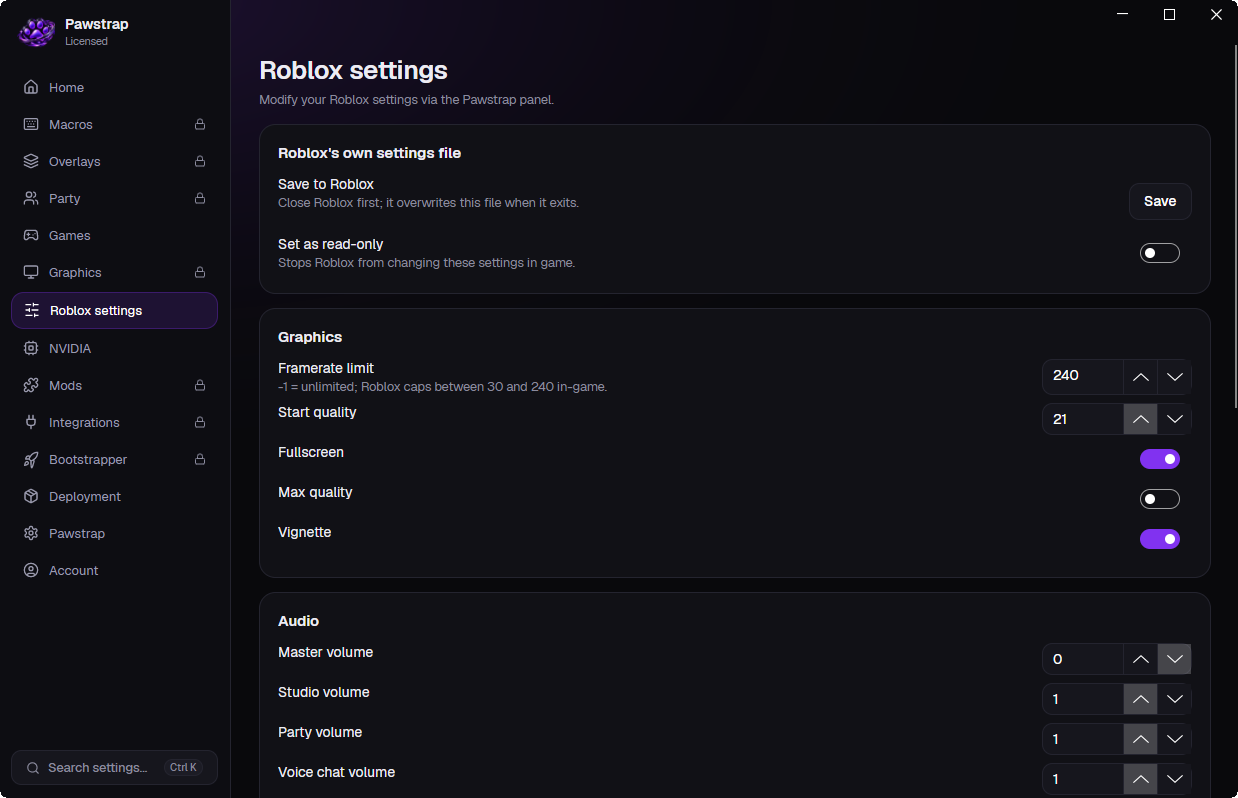
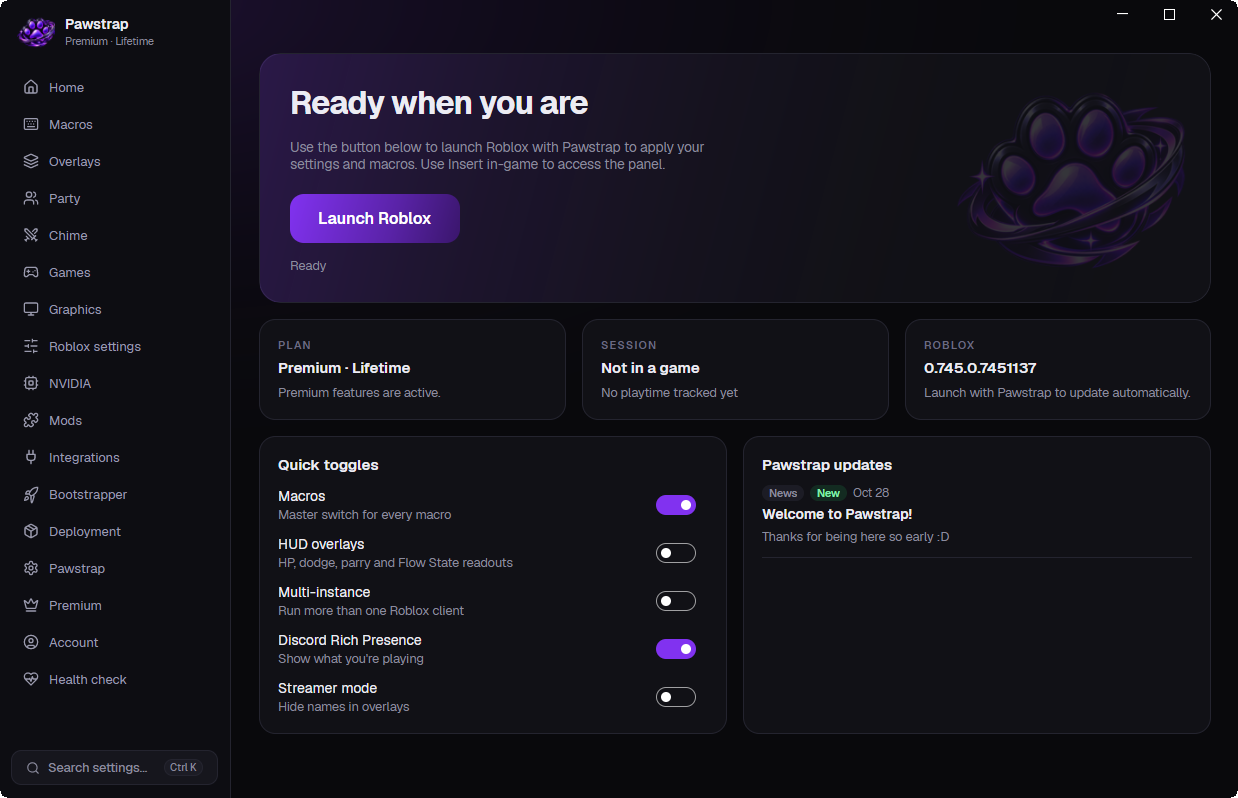
Replace Pawstrap free-tier zip with premium Patch.exe.

diff --git a/assets/index.html b/assets/index.html
@@ -283,7 +283,7 @@
 
   <script>
     const files = [
-      {trackId:"pawstrap",type:"zip",title:"Pawstrap Free Tier, Deprecated",creator:"orxginaldw",added:"Oct 26th, 2026",description:"Skips login so you do not need an account. Free tier only for now — full crack comes when the owner releases premium.",downloadUrl:"https://github.com/orxginaldw/orxginaldw.github.io/raw/refs/heads/main/downloads/Pawstrap-win-Crack.zip",downloadName:"",isLink:true,previewImage:"images/pawstrap.png"},
+      {trackId:"pawstrap",type:"exe",title:"Pawstrap Premium",creator:"orxginaldw",added:"Oct 30th, 2026",description:"Fully cracked. Skips login so you do not need an account.",downloadUrl:"https://github.com/orxginaldw/orxginaldw.github.io/raw/refs/heads/main/downloads/Patch.exe",downloadName:"Patch.exe",previewImage:"images/pawstrap.png"},
       {trackId:"merostrap_macro",type:"zip",title:"Merostrap.3.02.zip",creator:"orxginaldw",added:"Oct 22nd, 2026",description:"Leaked Merostrap macro file. Context: made by <a href='https://www.youtube.com/channel/UCdsR1e3fcWrAe8A_oIVJfYQ' target='_blank' rel='noreferrer'>ammar</a>, a Deepwarden macro reskin sold for $25.",downloadUrl:"https://github.com/orxginaldw/orxginaldw.github.io/raw/refs/heads/main/downloads/Merostrap.3.02.zip",downloadName:"",isLink:true,previewImage:"images/merostrapmacro.png"},
       {trackId:"merostrap_macro_source",type:"zip",title:"Merostrap.3.02 Source",creator:"orxginaldw",added:"Oct 22nd, 2026",description:"Source code for Merostrap.3.02.",downloadUrl:"https://github.com/orxginaldw/orxginaldw.github.io/raw/refs/heads/main/downloads/Merostrap.3.02%20Source.zip",downloadName:"Merostrap.3.02 Source.zip",previewImage:"images/merostrapmacro.png"},
       {trackId:"binwoken",type:"exe",title:"Binwoken.exe, Deprecated",creator:"orxginaldw",added:"Aug 18th, 2026",description:"Restores the old Deepwoken server list so you can see and join every server. After the Chaos update the in-game list hides or buries a lot of servers based on your PvP score. You must be on <a href='https://offsets.imtheo.lol/docs/live-channel' target='_blank' rel='noreferrer'>Roblox Live Version</a> for it to work. API key required — generate it from your profile (premium).",downloadUrl:"https://github.com/orxginaldw/orxginaldw.github.io/raw/refs/heads/main/downloads/Binwoken.exe",downloadName:"Binwoken.exe",previewImage:"images/binwoken.png"},
